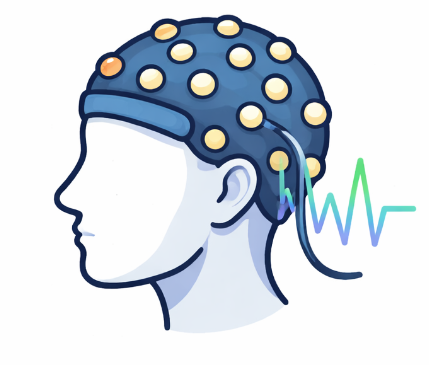
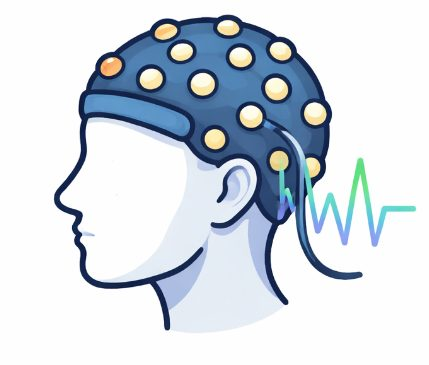
Cut page weight and unblock first paint (Lighthouse 100 across)
Lighthouse on mobile scored performance 77: the sidebar loaded a
1363 px, 280 KB portrait for a 140-260 px slot, the two teaser images
were PNGs saved as .jpg (116 and 202 KB), and the Google Fonts
stylesheet blocked first paint.

- Sidebar portrait uses 280/560 px copies via srcset with
  fetchpriority=high; the full-size file stays for JSON-LD.
- Teasers are re-encoded as real JPEGs (19 and 28 KB, no visual change;
  the originals were fully opaque).
- Fonts load with preload + media swap and a <noscript> fallback.
- Affiliation links get 8 px spacing to meet the 24 px touch-target
  rule.

Result: performance, accessibility, best practices, and SEO all 100;
page weight 758 KB -> 231 KB; FCP/LCP 3.1 s/4.6 s -> 1.4 s.

diff --git a/src/config.ts b/src/config.ts
@@ -361,6 +361,9 @@ export const siteConfig = {
   // Bolded wherever it appears in a research citation's author list.
   authorName: "S. Roy",
   portrait: "/images/blog/potrait_card.jpeg",
+  // Square 280 px and 560 px copies of the portrait for the sidebar <img srcset>;
+  // the full-size `portrait` is kept for JSON-LD.
+  portraitSizes: ["/images/portrait-280.jpg", "/images/portrait-560.jpg"],
   cv: "/files/shidhartho-roy-cv.pdf",
   social: {
     // Email intentionally omitted so the address is not exposed to scrapers.

diff --git a/src/styles/global.css b/src/styles/global.css
@@ -294,6 +294,8 @@
   list-style: none;
   margin: 0;
   padding: 0;
+  display: grid;
+  gap: 8px;
 }
 .talks-box {
   border: 1px solid var(--border);

diff --git a/CLAUDE.md b/CLAUDE.md
@@ -39,7 +39,7 @@ No linting is configured.
 
 Content lives in two places (plus the archived blog):
 
-1. **`src/config.ts`** (`siteConfig`): `name`, `title`, `subtitle`, `description`, `authorName`, `portrait`, `cv`, `social`, `bio` (paragraphs; inline `[label](url)`, `==highlight==`, `**bold**`), `affiliations`, `skills` (labeled groups), `research`, `publications`, `experience`, `education` (`note` + `awards` badges).
+1. **`src/config.ts`** (`siteConfig`): `name`, `title`, `subtitle`, `description`, `authorName`, `portrait` (full size, used by JSON-LD), `portraitSizes` (square 280 px and 560 px copies for the sidebar `srcset`), `cv`, `social`, `bio` (paragraphs; inline `[label](url)`, `==highlight==`, `**bold**`), `affiliations`, `skills` (labeled groups), `research`, `publications`, `experience`, `education` (`note` + `awards` badges).
    - `research` items follow `ResearchItem` in `src/lib/research.ts`: `featured: true` puts an item in the one-row Featured strip (max 3); `materials` keys are `pdf`, `preprint` (labeled Preprint: a free arXiv copy of a paywalled paper), `doi` (labeled Paper), `poster`, `slides`, `code`, `data`; `video` is `{ youtube: "<id>" }` or `{ src, poster? }`; `bibtex` adds a copy button. Self-hosted files go in `public/files/research/<slug>/`.
    - `publications` items follow `Publication` in `src/lib/publications.ts` (`title`, `authors`, `venue`, optional `details`, `year`, `type` of Journal/Conference/Abstract/Preprint, optional `award`, `materials`, `bibtex`). The Publications section groups them by year, newest first, keeping config order within a year. Only link a `pdf` when it is a legal free copy (open-access publisher, PubMed Central, arXiv, or an organizer-hosted abstract).
    - `social` keys are `linkedin`, `researchgate`, `scholar`, `github`; `Sidebar.astro` hardcodes one icon block per key, so a new key needs a matching block there. Every value also flows into JSON-LD `sameAs` via `Object.values(siteConfig.social)`. Email is intentionally not exposed anywhere (an `email` key would land in `sameAs`).

diff --git a/SETUP.md b/SETUP.md
@@ -71,7 +71,7 @@ From their answers, produce a **markdown checklist** tailored to them, with each
 
 **Assets to replace (in `public/`):**
 - `files/` → user's CV PDF; set `siteConfig.cv` to its path.
-- `images/blog/` → user's portrait; set `siteConfig.portrait` to its path (also used by the JSON-LD in `src/lib/seo.ts`).
+- `images/blog/` → user's portrait; set `siteConfig.portrait` to its path (used by the JSON-LD in `src/lib/seo.ts`). Also save square 280 px and 560 px JPEG copies in `images/` and list them in `siteConfig.portraitSizes`; the sidebar loads those, which keeps the page fast.
 - `favicon.ico`, `favicon-48.png`, `favicon-192.png`, and `apple-touch-icon.png` (180×180, no transparency) — the site icon; the default is an "SR" monogram on the accent color.
 - `og-image.png` → the 1200×630 social card. It **must be a static raster** (PNG/JPG — not SVG). Regenerate it with the user's name/title if you can render an image; otherwise tell the user to replace it with their own 1200×630 image.
 

diff --git a/README.md b/README.md
@@ -77,7 +77,7 @@ Also replace these example assets / settings:
 |------|-------|
 | Site origin (for canonical URLs + sitemap) | `site:` in `astro.config.mjs` |
 | CV PDF | `public/files/`, then set `siteConfig.cv` |
-| Portrait image | `public/images/blog/`, then set `siteConfig.portrait` (also used by the JSON-LD in `src/lib/seo.ts`) |
+| Portrait image | `public/images/blog/`, then set `siteConfig.portrait` (used by the JSON-LD in `src/lib/seo.ts`); also save square 280 px and 560 px copies and list them in `siteConfig.portraitSizes` for the sidebar |
 | Favicon | `public/favicon.ico`, `favicon-48.png`, `favicon-192.png`, `apple-touch-icon.png` |
 | Social share image | `public/og-image.png` — a 1200×630 PNG (see [SEO](#seo--llm-discoverability)) |
 | Accent color | `--accent`, `--accent-soft`, and `--mark` in `src/styles/global.css`, in both the `:root` (light) and `[data-theme="dark"]` blocks |
